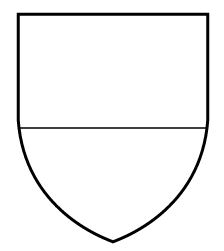
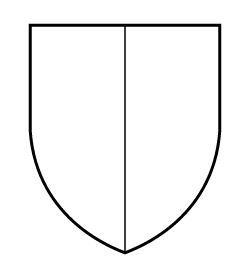
Añadida particion de base vacia, y codigo necesario

Changed region(s): [[0.0625, 0.0279, 0.9375, 0.9761]]

diff --git a/popUp.html b/popUp.html
@@ -28,13 +28,16 @@
             <h4>Particiones</h4>
             <div id="imagenesParticiones">
               <div id="particion11" class="col-md-5" onClick="displayColores(this)">
-                <img src="./img/particiones/base 1/Particion 1.jpg" class="design">
+                <img src="./img/particiones/base 1/Particion 1.png" class="design">
               </div>
               <div id="particion12" class="col-md-5" onClick="displayColores(this)">
                 <img src="./img/particiones/base 1/Particion 2.jpg" class="design">
               </div>
               <div id="particion13" class="col-md-5" onClick="displayColores(this)">
                 <img src="./img/particiones/base 1/Particion 3.jpg" class="design">
+              </div>
+              <div id="particion14" class="col-md-5" onClick="displayColores(this)">
+                <img src="./img/particiones/base 1/Particion 4.jpg" class="design">
               </div>
             </div>
           </div>
@@ -185,17 +188,21 @@ var srcBack = null;
   }
 
   function resetColor() { 
+    console.log("Part: " + particion);
     var elem1 = document.getElementById("colorParticion1").children[0];
     var elem2 = document.getElementById("colorParticion1").children[1];
     elem1.parentNode.removeChild(elem1);
     elem2.parentNode.removeChild(elem2);
-    elem1 = document.getElementById("colorParticion2").children[0];
-    elem2 = document.getElementById("colorParticion2").children[1];
-    elem1.parentNode.removeChild(elem1);
-    elem2.parentNode.removeChild(elem2);
     $('#colorParticion1').append("<select id='particion1' name='colorpicker-picker-shortlist'  onchange='changeColor(this);''>" + selector + "</select>");
-    $('#colorParticion2').append("<select id='particion2' name='colorpicker-picker-shortlist'  onchange='changeColor(this);''>" + selector + "</select>");
-    if (particion >= 5) {
+    
+    if(particion > 1 && particion < 5) {
+      elem1 = document.getElementById("colorParticion2").children[0];
+      elem2 = document.getElementById("colorParticion2").children[1];
+      elem1.parentNode.removeChild(elem1);
+      elem2.parentNode.removeChild(elem2);
+      $('#colorParticion2').append("<select id='particion2' name='colorpicker-picker-shortlist'  onchange='changeColor(this);''>" + selector + "</select>");
+    }
+    else if (particion >= 5) {
       elem1 = document.getElementById("colorParticion3").children[0];
       elem2 = document.getElementById("colorParticion3").children[1];
       elem1.parentNode.removeChild(elem1);
@@ -224,7 +231,6 @@ var srcBack = null;
       B: hexToB(select.value),
     };
     if(select.id == 'particion1') {
-      console.log(originalPixelsBack);
       for(var I = 0, L = originalPixelsBack.data.length; I < L; I += 4)
       {
         if(currentPixelsBack.data[I + 3] > 0) // If it's not a transparent pixel
@@ -238,7 +244,6 @@ var srcBack = null;
       backImg.src = canvas.toDataURL("image/png");
     } 
     if(select.id == 'particion2') {
-      console.log(originalPixelsPart1);
       for(var I = 0, L = originalPixelsPart1.data.length; I < L; I += 4)
       {
         if(currentPixelsPart1.data[I + 3] > 0) // If it's not a transparent pixel
@@ -290,12 +295,11 @@ var srcBack = null;
     $("#back").attr("src", src);
     //Limpieza de colores y particiones
     if(particion != -1) {
-      if(particion != 5) {
-        $("#colorParticion1").css("display", "none");
+      $("#colorParticion1").css("display", "none");
+      if(particion > 1 && particion != 5) {
         $("#colorParticion2").css("display", "none");
       }
       else {
-        $("#colorParticion1").css("display", "none");
         $("#colorParticion2").css("display", "none");
         $("#colorParticion3").css("display", "none");
         $("#colorParticion4").css("display", "none");
@@ -322,17 +326,26 @@ var srcBack = null;
     //Reset de los colores
     if(particion != -1) {
       $("#back").attr("src", srcBack);
-      resetColor(particion);      
+      resetColor();      
       particion = -1;
     }
     particion = item.id.substr(id.length - 1);
     //var colores = "#colores" + base + particion;
 
-    if(particion < 5) {
+    if(particion == 1) {
+      $("#colorParticion1").css("display", "block");
+      $("#colorParticion2").css("display", "none");
+      $("#colorParticion3").css("display", "none");
+      $("#colorParticion4").css("display", "none");
+      getPixels(backImg);
+    }
+    else if(particion < 5) {
       var srcPart1 = src.substr(0, src.length - 4) + ".png";
       $("#part1").attr("src", srcPart1);
       $("#colorParticion1").css("display", "block");
       $("#colorParticion2").css("display", "block");
+      $("#colorParticion3").css("display", "none");
+      $("#colorParticion4").css("display", "none");
       getPixels(backImg);
       $("#part1").on('load', function(){
         getPixels(part1Img);
